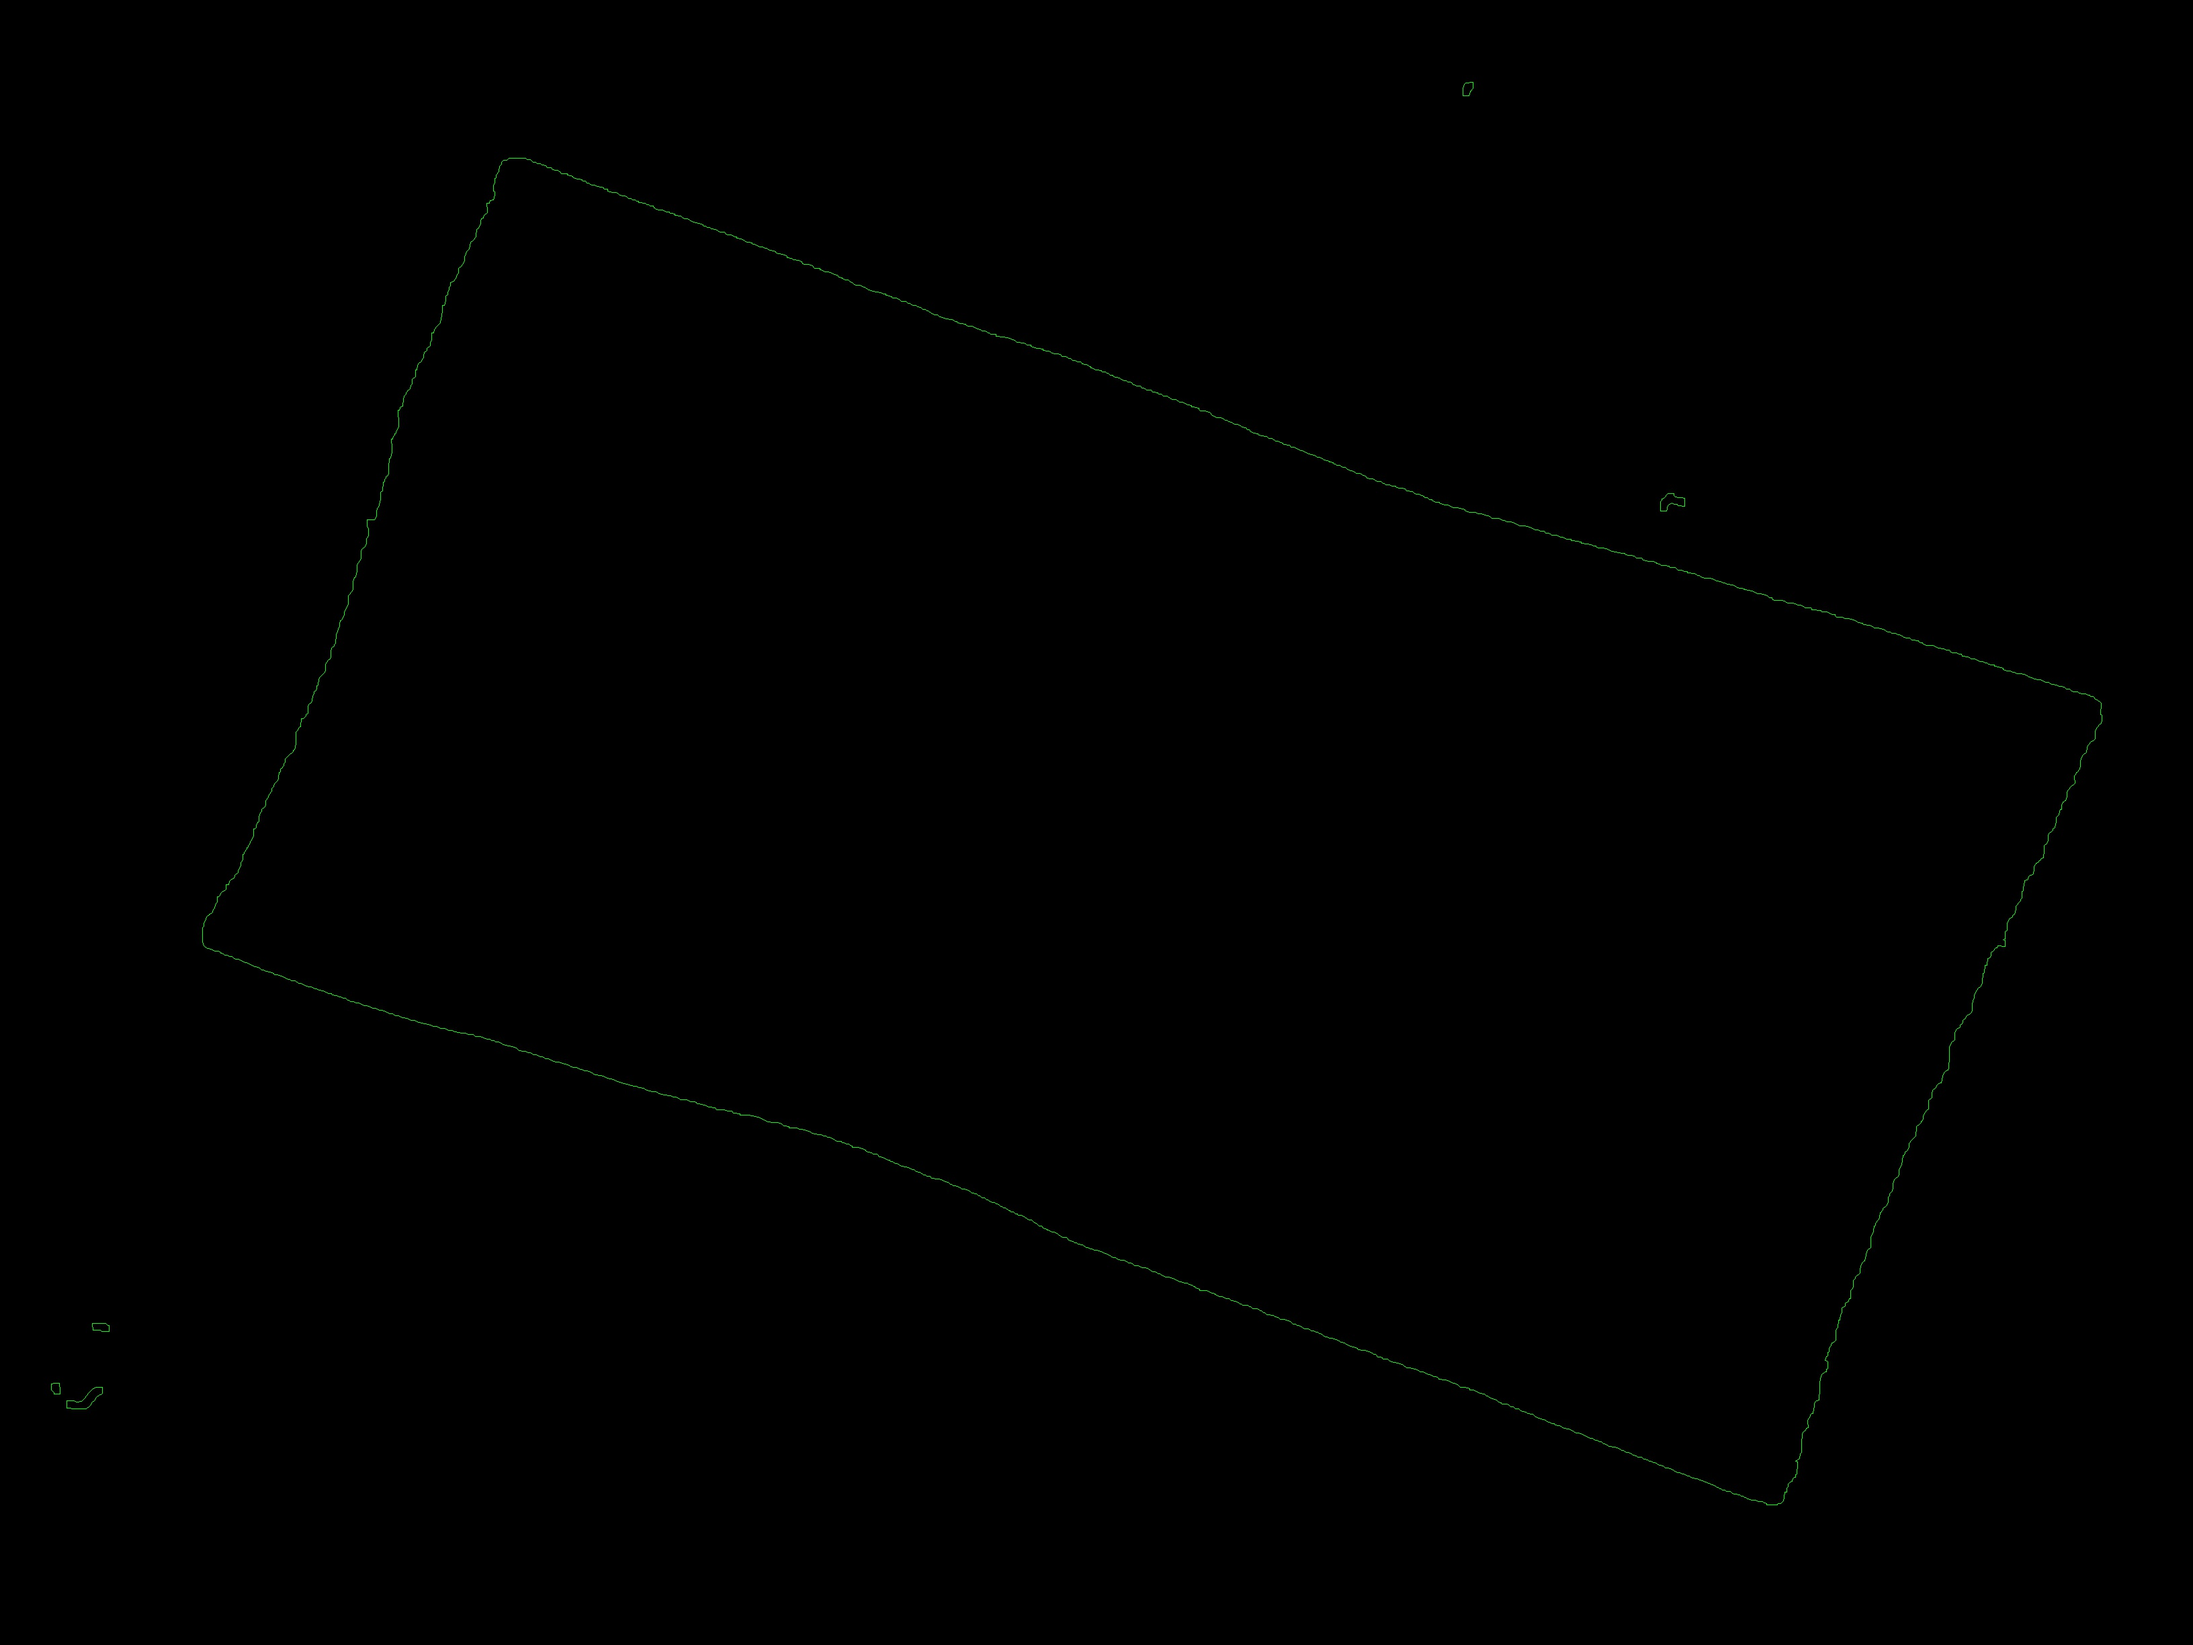
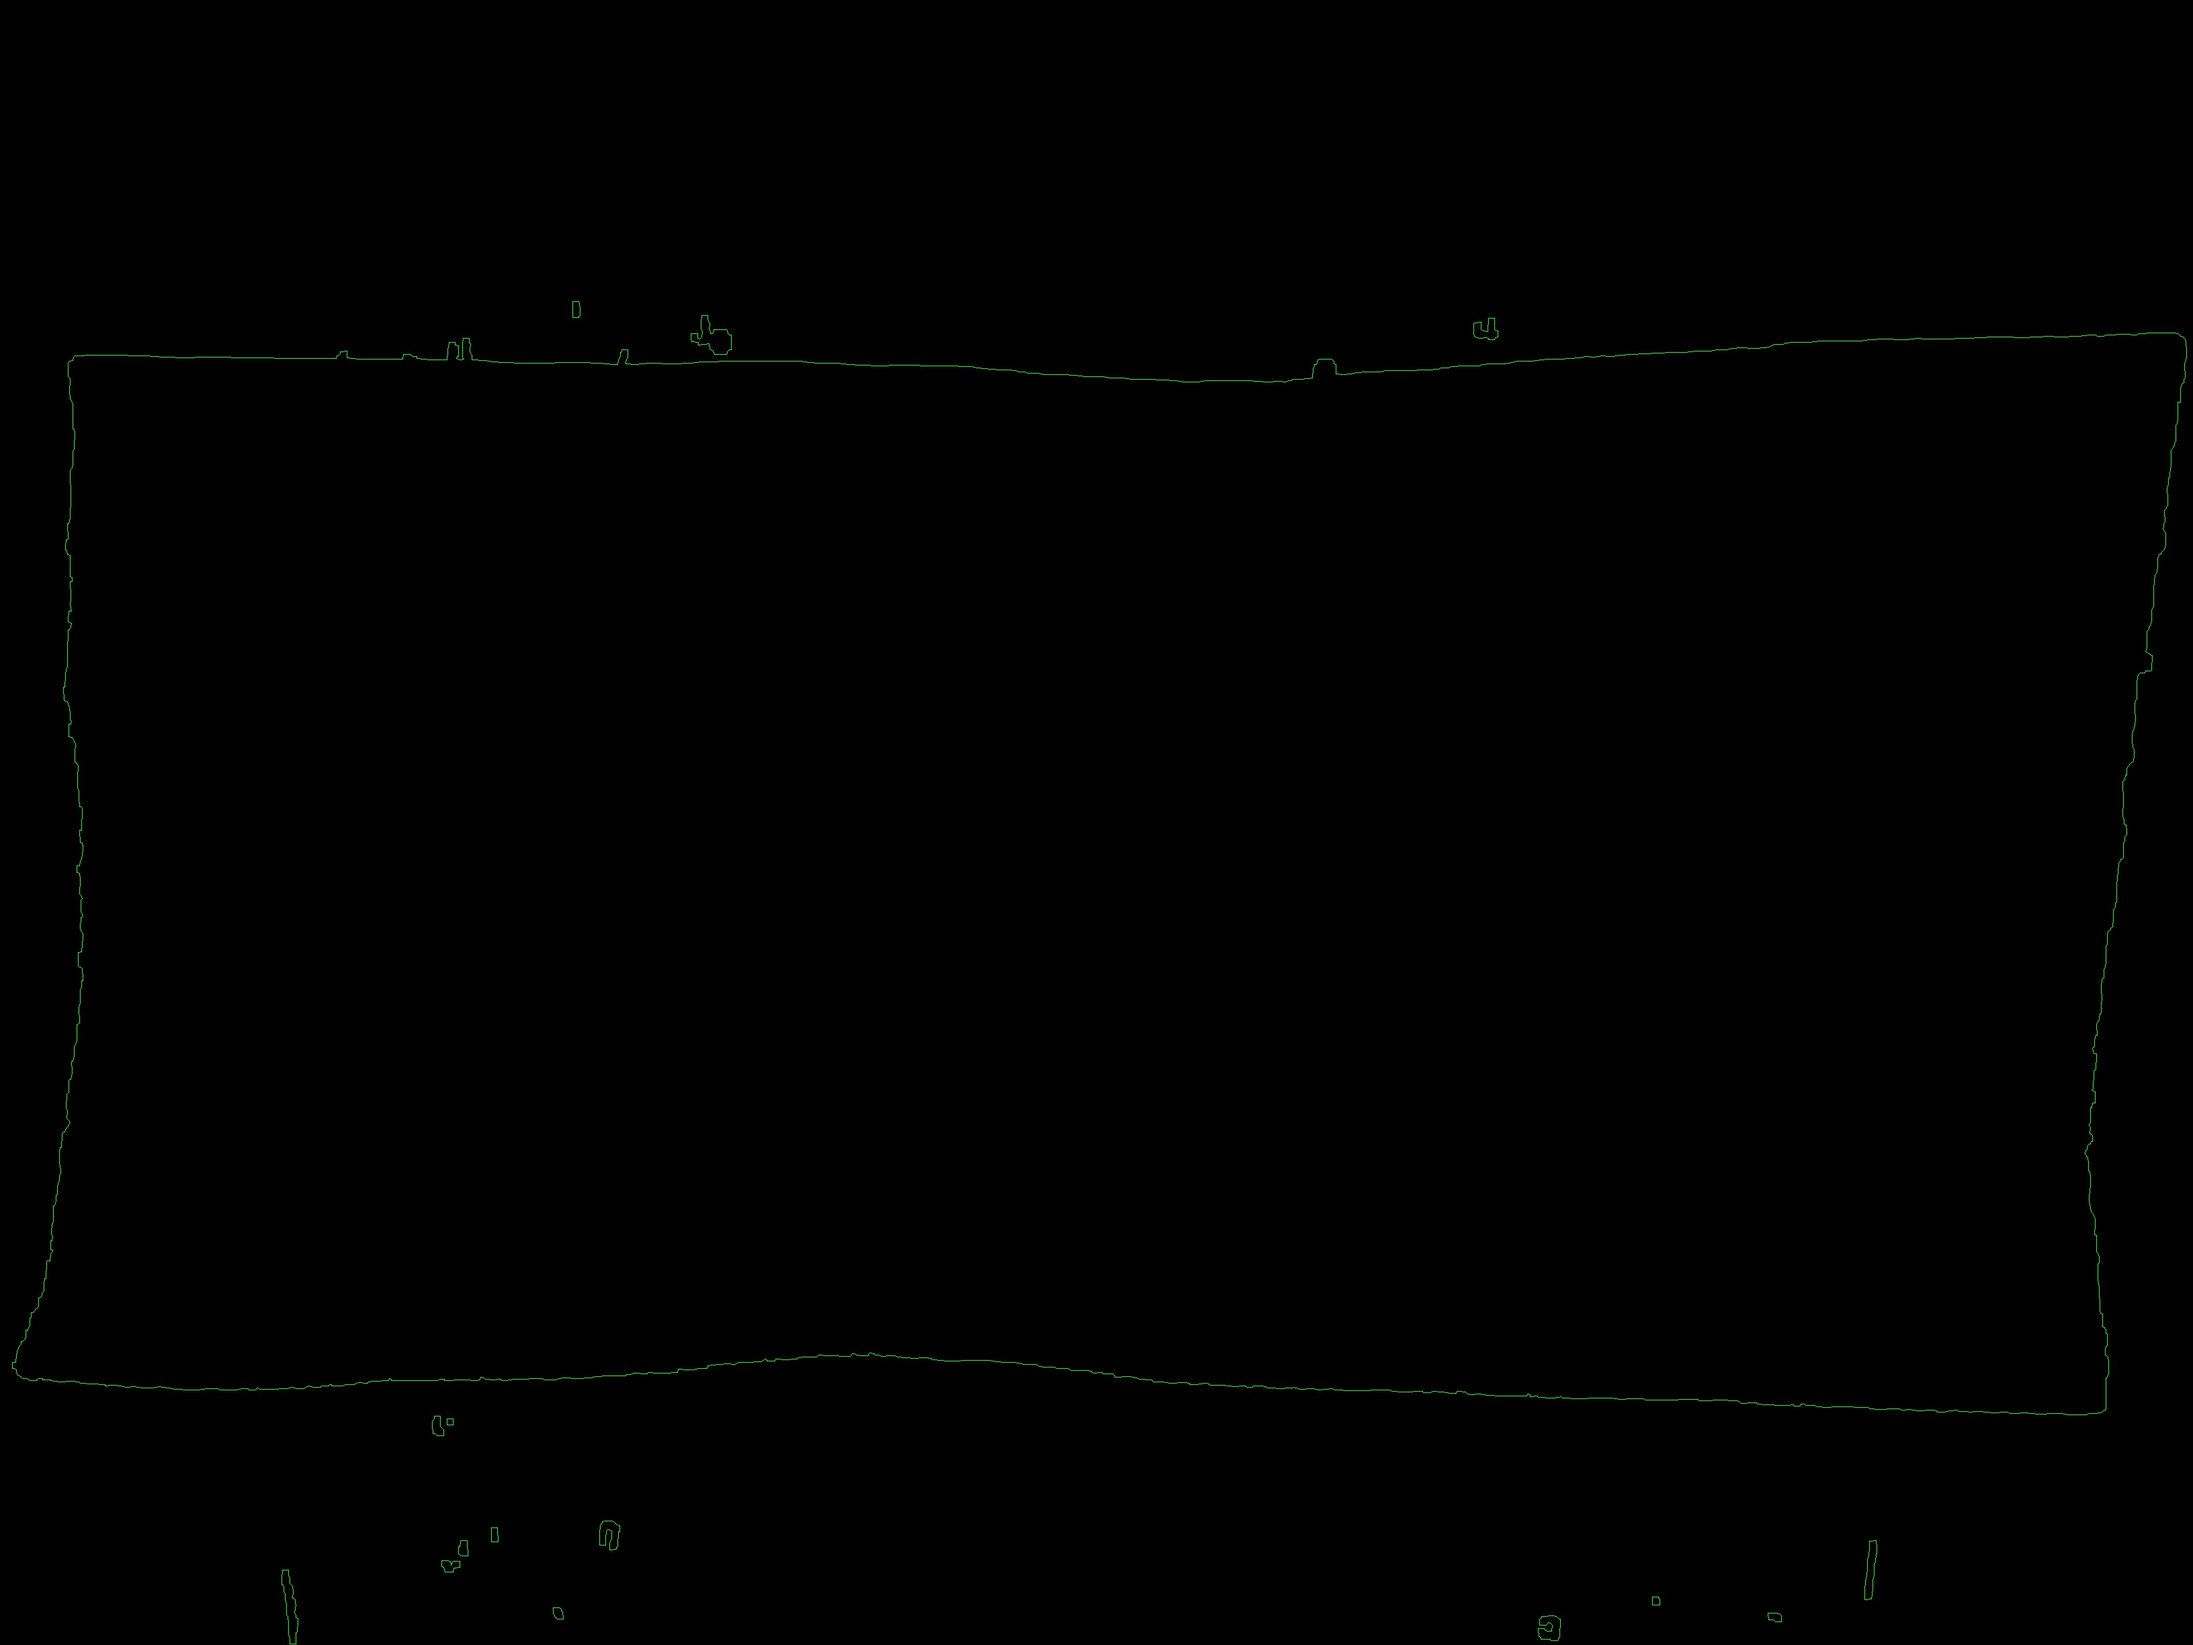
crazy!!!
may the force be with you

diff --git a/ocr/longest_closed.cc b/ocr/longest_closed.cc
@@ -17,8 +17,8 @@ using namespace std;
 
 void longest_closed()
 {
-   Mat mat = imread( "./pics/heb.jpg");
-   // Mat mat = imread( "./pics/heb2.jpg");
+   // Mat mat = imread( "./pics/heb.jpg");
+   Mat mat = imread( "./pics/heb2.jpg");
    // Mat mat = imread( "./pics/heb_new.jpg");
    // Mat mat = imread( "./pics/pers.jpg");
    // Mat mat = imread( "./pics/heb.ocv.working.jpg");
@@ -47,22 +47,29 @@ void longest_closed()
 
    std::cout << "contours count: " <<  contours.size()  << std::endl;
 
+   // TODO - go on from checking if the >10000 is a single len
    double len;
    std::vector< std::vector<cv::Point> > contours_f1;
+   std::vector<std::vector<cv::Point> > contoursDraw (contours.size());
+   Mat poly = Mat::zeros( mat.size(), CV_8UC3 );
    for (int i=0; i < contours.size(); i++){
+
+     cv::approxPolyDP(Mat(contours[i]), contoursDraw[i], 40, true);
 
      len = cv::arcLength(contours[i], true);
 
      if(len>0){
-       std::cout << "closed line...: " << len << std::endl;
+       std::cout << "closed line len...: " << len << std::endl;
        contours_f1.push_back(contours[i]);
      }
    }
 
    Mat drawing = Mat::zeros( mat.size(), CV_8UC3 );
    cv::drawContours(drawing, contours_f1, -1, cv::Scalar(0,255,0),1);
+   cv::drawContours(poly, contoursDraw, -1, cv::Scalar(0,255,0),1);
 
    cv::imwrite( "./img_pre/long2.jpg", drawing);
+   cv::imwrite( "./img_pre/long3.jpg", poly);
 }
 
 int main ( int argc, char** argv )
